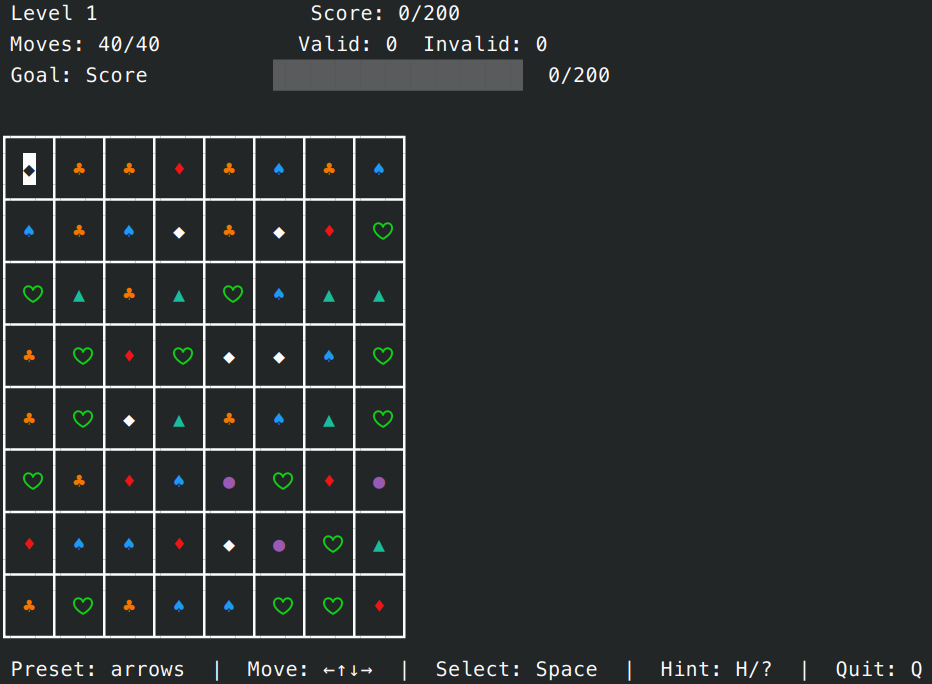
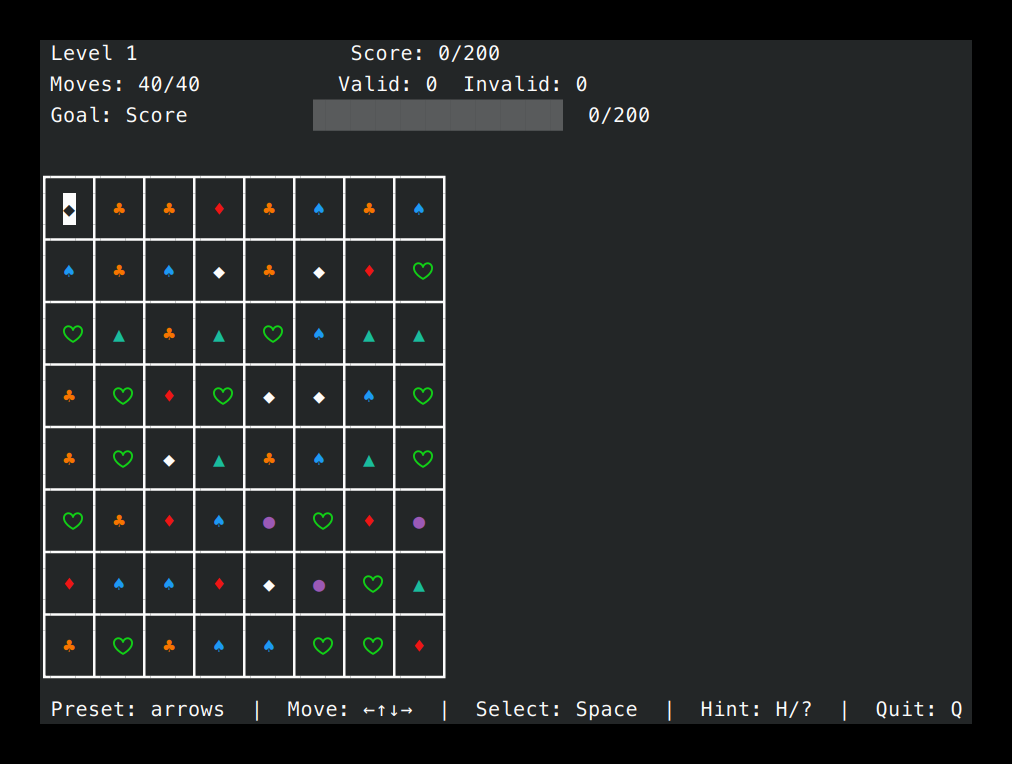
Add muted attribute to video, add 40px border to screenshot

diff --git a/README.md b/README.md
@@ -4,7 +4,7 @@ A terminal-based Match-3 puzzle game (Bejeweled / Candy Crush style) written in 
 
 Swap adjacent gems to form lines of 3+, clear them, and trigger cascading matches. Play through 20 levels with goals, track your score, and compete on the high score board.
 
-<video src="screenshots/game.webm" controls loop></video>
+<video src="screenshots/game.webm" autoplay controls loop muted></video>
 
 ## Requirements
 